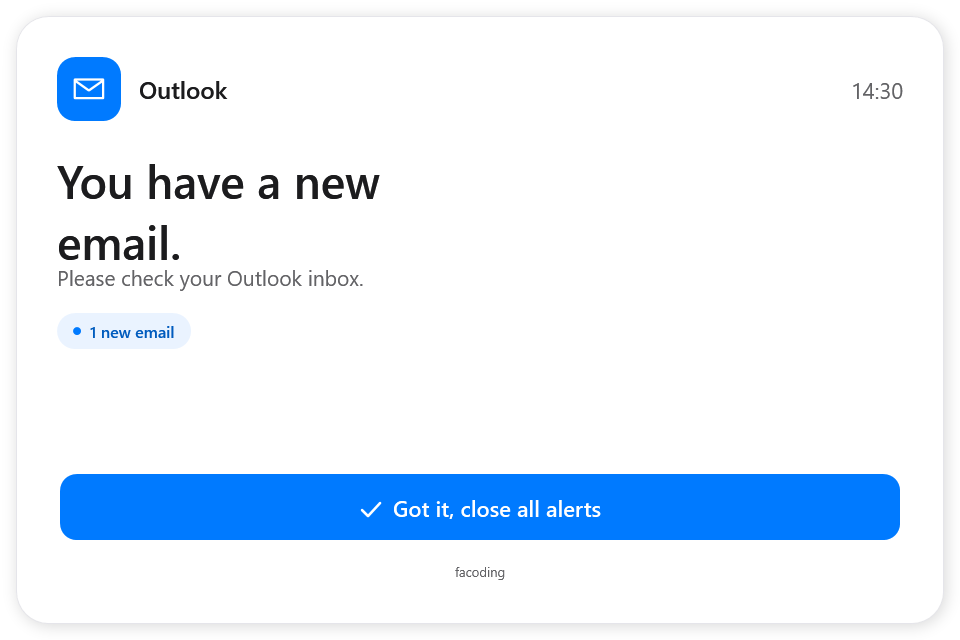
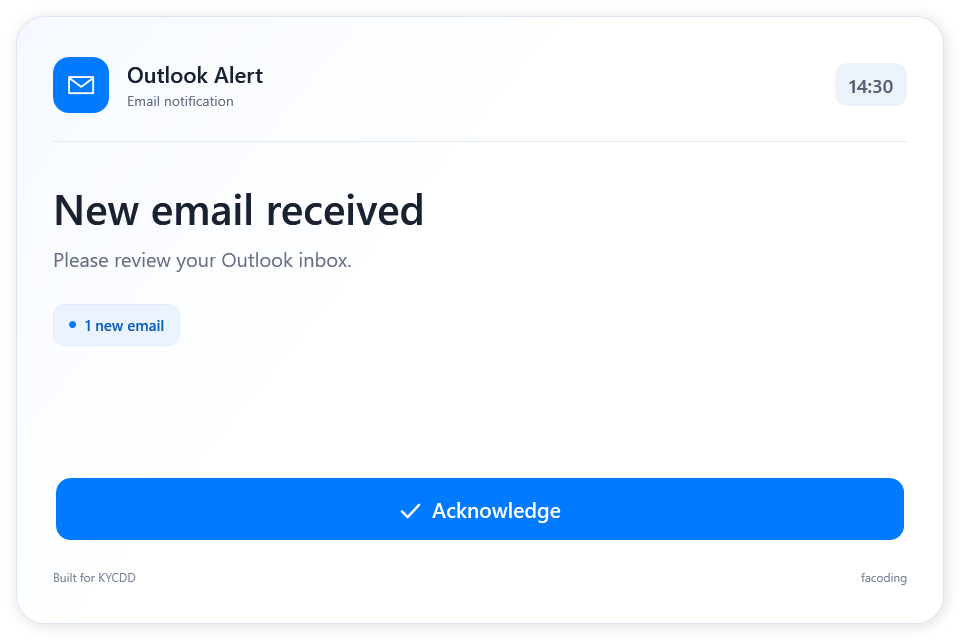
Document 3.1.0 verification and refresh KYCDD alert previews

diff --git a/docs/INSTALLATION.md b/docs/INSTALLATION.md
@@ -81,15 +81,13 @@ exact fingerprint when it is no longer needed; see [privacy and signing](PRIVACY
 
 ## Verification scope
 
-The CI record below applies to the earlier 3.0.1 source. Fresh 3.1.0 verification
-has not yet been recorded here.
-
-[Windows CI run 45408497239](https://github.com/faCoding97/Outlook-Alert-FaCoding/actions/runs/45408497239) passed for
-[source commit 3dd4400](https://github.com/faCoding97/Outlook-Alert-FaCoding/commit/3dd4400960560eeaf7e15621af1151ace128ee85) on a Windows Server 2025 runner. It built the app,
+[Windows CI run 45411439320](https://github.com/faCoding97/Outlook-Alert-FaCoding/actions/runs/45411439320) passed for
+[source commit 713e339](https://github.com/faCoding97/Outlook-Alert-FaCoding/commit/713e3392c7976cd5afc00fdb5eaf29da2642a7ea) on a Windows Server 2025 runner. It built the app,
 launcher and installer source, passed 24 notification-policy checks, and passed all
-9 installer viewport/font-stress cases.
+9 installer viewport/font-stress cases. It also rendered the actual alert markup
+and loaded the settings button template.
 
 Those checks did not install the release or exercise UAC, package provisioning,
-several Windows accounts, notification consent, startup after sign-in or machine
-uninstall. Those paths still need a Windows 11 device test. The first public 3.0
-release remains a pre-release.
+several Windows accounts, notification consent, startup after sign-in, shortcut
+migration or machine uninstall. Those paths still need a Windows 11 device test.
+Version 3.1.0 remains a pre-release.

diff --git a/docs/BUILDING.md b/docs/BUILDING.md
@@ -73,10 +73,10 @@ Before publication, check the source and assets for personal mailbox addresses, 
 
 ## Windows layout checks
 
-[Windows CI run 45408497239](https://github.com/faCoding97/Outlook-Alert-FaCoding/actions/runs/45408497239) completed successfully for
-[source commit 3dd4400](https://github.com/faCoding97/Outlook-Alert-FaCoding/commit/3dd4400960560eeaf7e15621af1151ace128ee85) on Windows Server 2025. The app, launcher and
+[Windows CI run 45411439320](https://github.com/faCoding97/Outlook-Alert-FaCoding/actions/runs/45411439320) completed successfully for
+[source commit 713e339](https://github.com/faCoding97/Outlook-Alert-FaCoding/commit/713e3392c7976cd5afc00fdb5eaf29da2642a7ea) on Windows Server 2025. The app, launcher and
 installer source builds passed, followed by all 24 notification-policy checks and
-all 9 installer layout cases.
+all 9 installer layout cases. The actual alert markup was rendered and the settings button template loaded successfully.
 
 The layout cases combine viewports of 740×710, 640×560 and 460×440 with font factors
 of 1.0×, 1.5× and 2.0×. The harness constructs only the setup form, checks labels

diff --git a/docs/CHANGELOG.md b/docs/CHANGELOG.md
@@ -1,15 +1,13 @@
 # Changelog
 
-## 3.1.0 — 2026-11-24 (pre-release, in preparation)
+## 3.1.0 — 2026-11-24 (pre-release)
 
 - Updates the alert styling and shortens the alert, settings and setup copy.
 - Credits facoding and KYCDD while keeping the app available to other New Outlook users.
 - Uses **Outlook Alert** as the visible app and shared Start menu name.
 - Replaces the older **Outlook Alert by facoding** shared shortcut during upgrade.
 
-Fresh 3.1.0 CI results and the public release upload are pending. Windows 11
-multi-account installation, notification permission, sign-in/startup and uninstall
-remain device-validation items.
+Verification: [Windows CI run 45411439320](https://github.com/faCoding97/Outlook-Alert-FaCoding/actions/runs/45411439320) passed source builds, 24 policy checks, 9 installer layout cases, alert rendering and settings button-template loading for source commit `713e339`. The public release upload is pending. Windows 11 multi-account installation, shortcut migration, notification permission, sign-in/startup and uninstall remain device-validation items.
 
 ## 3.0.1 — 2026-11-24 (pre-release)
 

diff --git a/README.md b/README.md
@@ -19,7 +19,7 @@ When New Outlook posts a Windows notification, Outlook Alert displays a large ca
 
 It is useful when Outlook is minimized, you often switch between applications, or you miss a small notification on another monitor.
 
-![Outlook Alert with a short message and facoding signature](docs/assets/alert-preview.png)
+![Outlook Alert with KYCDD credit and a small facoding signature](docs/assets/alert-preview.png)
 
 ![Outlook Alert installer with a scrollable body and fixed Install footer](docs/assets/installer-windows-layout.png)
 
